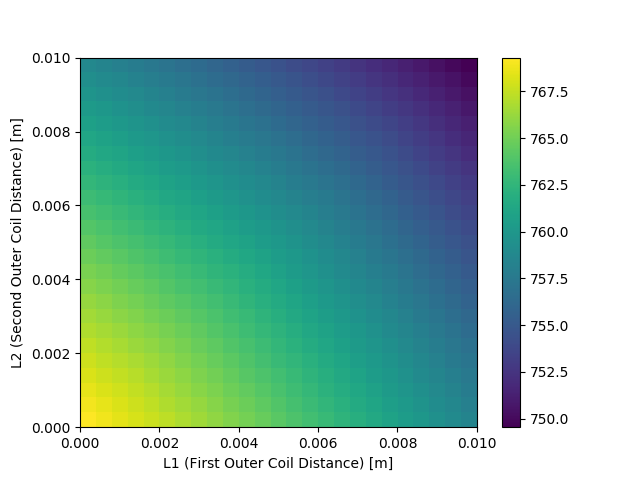
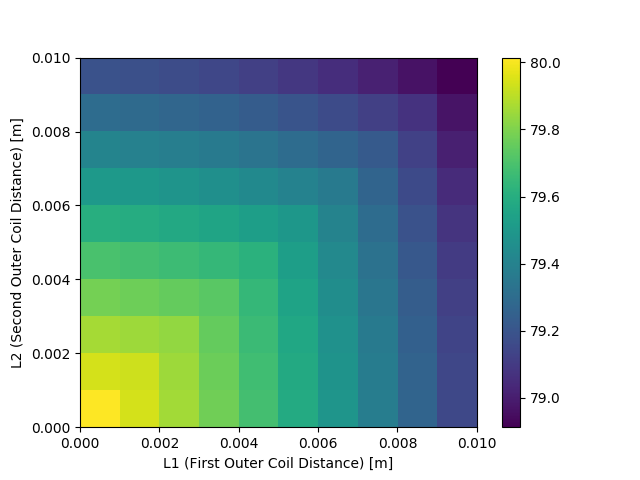
analysis: different ideal magnetic field configurations
* Addresses #86.

diff --git a/analysis_scripts/adiabatic_check.py b/analysis_scripts/adiabatic_check.py
@@ -14,62 +14,76 @@ import numpy as np
 
 from experiments.mieze.parameters import HelmholtzSpinFlipper_position_HSF1, lambda_n, step
 
+from utils.helper_functions import read_data_from_file
 
-def plot_adiabatic_check(self):
-    index_first_hsf = np.argmin(abs(np.asarray(self.x_range) - HelmholtzSpinFlipper_position_HSF1))
 
-    fig1, ax1 = plt.subplots()
+class Plotter:
 
-    color = 'tab:red'
-    ax1.set_xlabel('Neutron Trajectory (m)')
-    ax1.set_ylabel('Magnetic field (G)', color=color)
+    def __init__(self):
+        self.x_range, self.y_range, self.z_range, self.bx, self.by, self.bz = read_data_from_file()
 
-    # logger.error(f'{absolute_x_position}\n]{Bx_values}\n{By_values}')
+        # self.preadjust_values()
 
-    ax1.plot(self.x_range, self.bx)
-    ax1.plot(self.x_range, self.bz)
+    def preadjust_values(self):
+        self.bx = 1e-1 * np.asarray(np.abs(self.bx))
+        self.by = np.abs(self.by)
 
-    ax1.legend((r'$B_x$', r'$B_z$'), loc=9)
-    ax1.tick_params(axis='y', labelcolor=color)
+    def plot_adiabatic_check(self):
+        index_first_hsf = np.argmin(abs(np.asarray(self.x_range) - HelmholtzSpinFlipper_position_HSF1))
 
-    ax2 = ax1.twinx()  # instantiate a second axes that shares the same x-axis
+        fig1, ax1 = plt.subplots()
 
-    color = 'tab:green'
-    x_pos = self.x_range[index_first_hsf]
-    # noinspection PyTypeChecker
-    theta_values = np.degrees(np.arctan(np.divide(np.asarray(self.bz), np.asarray(self.bx))))
-    y_pos = theta_values[index_first_hsf]
+        color = 'tab:red'
+        ax1.set_xlabel('Neutron Trajectory (m)')
+        ax1.set_ylabel('Magnetic field (G)', color=color)
 
-    # we already handled the x-label with ax1
-    ax2.set_ylabel(r'$\theta$ (degree)', color=color)
-    ax2.plot(self.x_range, theta_values, color=color)
-    ax2.tick_params(axis='y', labelcolor=color)
-    ax2.plot(x_pos, y_pos, color='black', marker='o')
-    ax2.text(x_pos, y_pos * 0.9, '{:.1f}°'.format(y_pos))
+        # logger.error(f'{absolute_x_position}\n]{Bx_values}\n{By_values}')
 
-    # fig1.tight_layout()  # otherwise the right y-label is slightly clipped
-    plt.show()
-    # plt.savefig('By_Bx.pdf')
-    # plt.close()
+        ax1.plot(self.x_range, self.bx)
+        ax1.plot(self.x_range, self.bz)
 
-    fig1, ax = plt.subplots()
+        ax1.legend((r'$B_x$', r'$B_z$'), loc=9)
+        ax1.tick_params(axis='y', labelcolor=color)
 
-    dtheta_dy = np.abs(np.gradient(theta_values, step))
-    b_values = np.sqrt(np.power(np.asarray(self.bx), 2) + np.power(np.asarray(self.bz), 2))
+        ax2 = ax1.twinx()  # instantiate a second axes that shares the same x-axis
 
-    # ax.set_yscale('log')
-    ax.plot(self.x_range, np.asarray(dtheta_dy) * 1e-2)  # y from m to cm
-    ax.plot(self.x_range, 2.65 * lambda_n * np.asarray(b_values) * 1e-1)  # B from Gauss to mT,
-    ax.legend((r'$\frac{d\theta}{dy}$', r'$2.65\lambda B$'))
+        color = 'tab:green'
+        x_pos = self.x_range[index_first_hsf]
+        # noinspection PyTypeChecker
+        theta_values = np.degrees(np.arctan(np.divide(np.asarray(self.bz), np.asarray(self.bx))))
+        y_pos = theta_values[index_first_hsf]
 
-    ax.set_xlabel('Neutron Trajectory (m)')
-    ax.set_ylabel("(degrees/cm)")
-    ax.grid()
-    # fig1.tight_layout()
-    plt.show()
-    # plt.savefig('Adiabatic_Check.pdf')
-    # plt.close()
+        # we already handled the x-label with ax1
+        ax2.set_ylabel(r'$\theta$ (degree)', color=color)
+        ax2.plot(self.x_range, theta_values, color=color)
+        ax2.tick_params(axis='y', labelcolor=color)
+        ax2.plot(x_pos, y_pos, color='black', marker='o')
+        ax2.text(x_pos, y_pos * 0.9, '{:.1f}°'.format(y_pos))
+
+        # fig1.tight_layout()  # otherwise the right y-label is slightly clipped
+        plt.show()
+        # plt.savefig('By_Bx.pdf')
+        # plt.close()
+
+        fig1, ax = plt.subplots()
+
+        dtheta_dy = np.abs(np.gradient(theta_values, step))
+        b_values = np.sqrt(np.power(np.asarray(self.bx), 2) + np.power(np.asarray(self.bz), 2))
+
+        # ax.set_yscale('log')
+        ax.plot(self.x_range, np.asarray(dtheta_dy) * 1e-2)  # y from m to cm
+        ax.plot(self.x_range, 2.65 * lambda_n * np.asarray(b_values) * 1e-1)  # B from Gauss to mT,
+        ax.legend((r'$\frac{d\theta}{dy}$', r'$2.65\lambda B$'))
+
+        ax.set_xlabel('Neutron Trajectory (m)')
+        ax.set_ylabel("(degrees/cm)")
+        ax.grid()
+        # fig1.tight_layout()
+        plt.show()
+        # plt.savefig('Adiabatic_Check.pdf')
+        # plt.close()
 
 
 if __name__ == "__main__":
-    plot_adiabatic_check()
+    plot = Plotter()
+    plot.plot_adiabatic_check()

diff --git a/analysis_scripts/coil_set_positions.py b/analysis_scripts/coil_set_positions.py
@@ -44,18 +44,19 @@ def minimizer_function(computed_values, expected_values, use_chisquare=False):
                               1e4 * np.asarray(expected_values))
     else:
         fit_value = 0
-        for j in range(len(computed_values)):
+        n = len(computed_values)
+        for j in range(n):
             dif = computed_values[j] - expected_values[j]
             fit_value += dif ** 2
-        fit_value = 1 / fit_value
+        fit_value = 1 / (fit_value * n)
 
     return fit_value
 
 
 def get_ideal_field(b_max, middle_position, x_positions):
     """Returns the ideal magnetic field."""
-    return b_max * unit_square(middle_position - DISTANCE_BETWEEN_INNER_COILS / 2 - LENGTH_COIL_INNER - LENGTH_COIL_INNER * 0.25,
-                               middle_position + DISTANCE_BETWEEN_INNER_COILS / 2 + LENGTH_COIL_INNER * 0.25,
+    return 0.99 * b_max * unit_square(middle_position - DISTANCE_BETWEEN_INNER_COILS / 2 - LENGTH_COIL_INNER - LENGTH_COIL_INNER * 0.5,
+                               middle_position + DISTANCE_BETWEEN_INNER_COILS / 2 + LENGTH_COIL_INNER * 0.5,
                                x_positions)
 
 
@@ -72,9 +73,9 @@ def define_iteration_values(n=1):
 
 def define_computational_grid():
     """Define the computational grid space."""
-    startpoint = -0.25  # [m]
-    endpoint = 0.25  # [m]  # Positions.get_position_coilA()
-    return np.linspace(startpoint, endpoint, num=400)
+    startpoint = -0.35  # [m]
+    endpoint = 0.35  # [m]  # Positions.get_position_coilA()
+    return np.linspace(startpoint, endpoint, num=700)
 
 
 def plot_l1l2_cmap(fits, l, plot_name=None):
@@ -90,12 +91,13 @@ def plot_l1l2_cmap(fits, l, plot_name=None):
         plt.close()
 
 
-def plot_ideal_position(middle_position, best_fit, x_positions, plot_name=None):
+def plot_ideal_position(middle_position, best_fit, x_positions, coil_type=None, plot_name=None):
     """Plot the magnetic field for the ideal position."""
 
     # Plot values
     print(best_fit)
-    coil_set = CoilSet(name='CoilSet',
+    coil_set = CoilSet(coil_type=coil_type,
+                       name='CoilSet',
                        position=middle_position,
                        distance_12=best_fit['l12'],
                        distance_34=best_fit['l34'])
@@ -139,12 +141,12 @@ def plot_ideal_position(middle_position, best_fit, x_positions, plot_name=None):
     plt.savefig(f'../docs/experiments/MIEZE/bfield_coil_set{plot_name}.png')
 
 
-def optimize_coils_positions():
+def optimize_coils_positions(coil_type=None):
     """Compute the optimization.
 
     Iterate over several distances for each outer coil.
     """
-    n = 1
+    n = 100
     l = define_iteration_values(n)
     fits = [[0 for i in range(n)] for j in range(n)]
 
@@ -158,7 +160,7 @@ def optimize_coils_positions():
         for j in range(len(l)):
             print(f'compute i= {i} j= {j}')
             # Create CoilSets
-            coil_set = CoilSet(coil_type=RealCoil,
+            coil_set = CoilSet(coil_type=coil_type,
                                distance_12=l[i], distance_34=l[j],
                                name='CoilSet',
                                position=middle_position)
@@ -178,8 +180,8 @@ def optimize_coils_positions():
                 best_fit = {'fit_value': fit_value, 'l12': l[i], 'l34': l[j]}
     plot_name = '_small'
     plot_l1l2_cmap(fits, l, plot_name=plot_name)
-    plot_ideal_position(middle_position, best_fit, x_positions, plot_name=plot_name)
+    plot_ideal_position(middle_position, best_fit, x_positions, coil_type=coil_type, plot_name=plot_name)
 
 
 if __name__ == "__main__":
-    optimize_coils_positions()
+    optimize_coils_positions(coil_type=Coil)

diff --git a/elements/coils.py b/elements/coils.py
@@ -52,6 +52,7 @@ class BaseCoil(BasicElement):
         """
         super(BaseCoil, self).__init__(position, name)
 
+        self.iteration = 0
         self.prefactor = MU_0
 
         self.length = kwargs.get('length', None)
@@ -328,6 +329,8 @@ class RealCoil(Coil):
 
     def b_field(self, x, y, z):
         """Compute the magnetic field given the position in cartesian coordinates."""
+        self.iteration += 1
+
         field = np.array([0., 0., 0.])
         r = np.sqrt(y ** 2 + z ** 2)
         phi = get_phi(y, z)
@@ -340,6 +343,8 @@ class RealCoil(Coil):
 
         for x0 in x_positions:
             for R in rs:
+                print(f'iteration:{self.iteration} with x:{x0} and r:{R}')
+                # logger.error(f'{field}\n{field_add}')
                 field_add = np.array([self.b_field_x(x + x0, R, r),
                                       self.b_field_rho(x + x0, R) * np.cos(phi),
                                       self.b_field_rho(x + x0, R) * np.sin(phi)])
